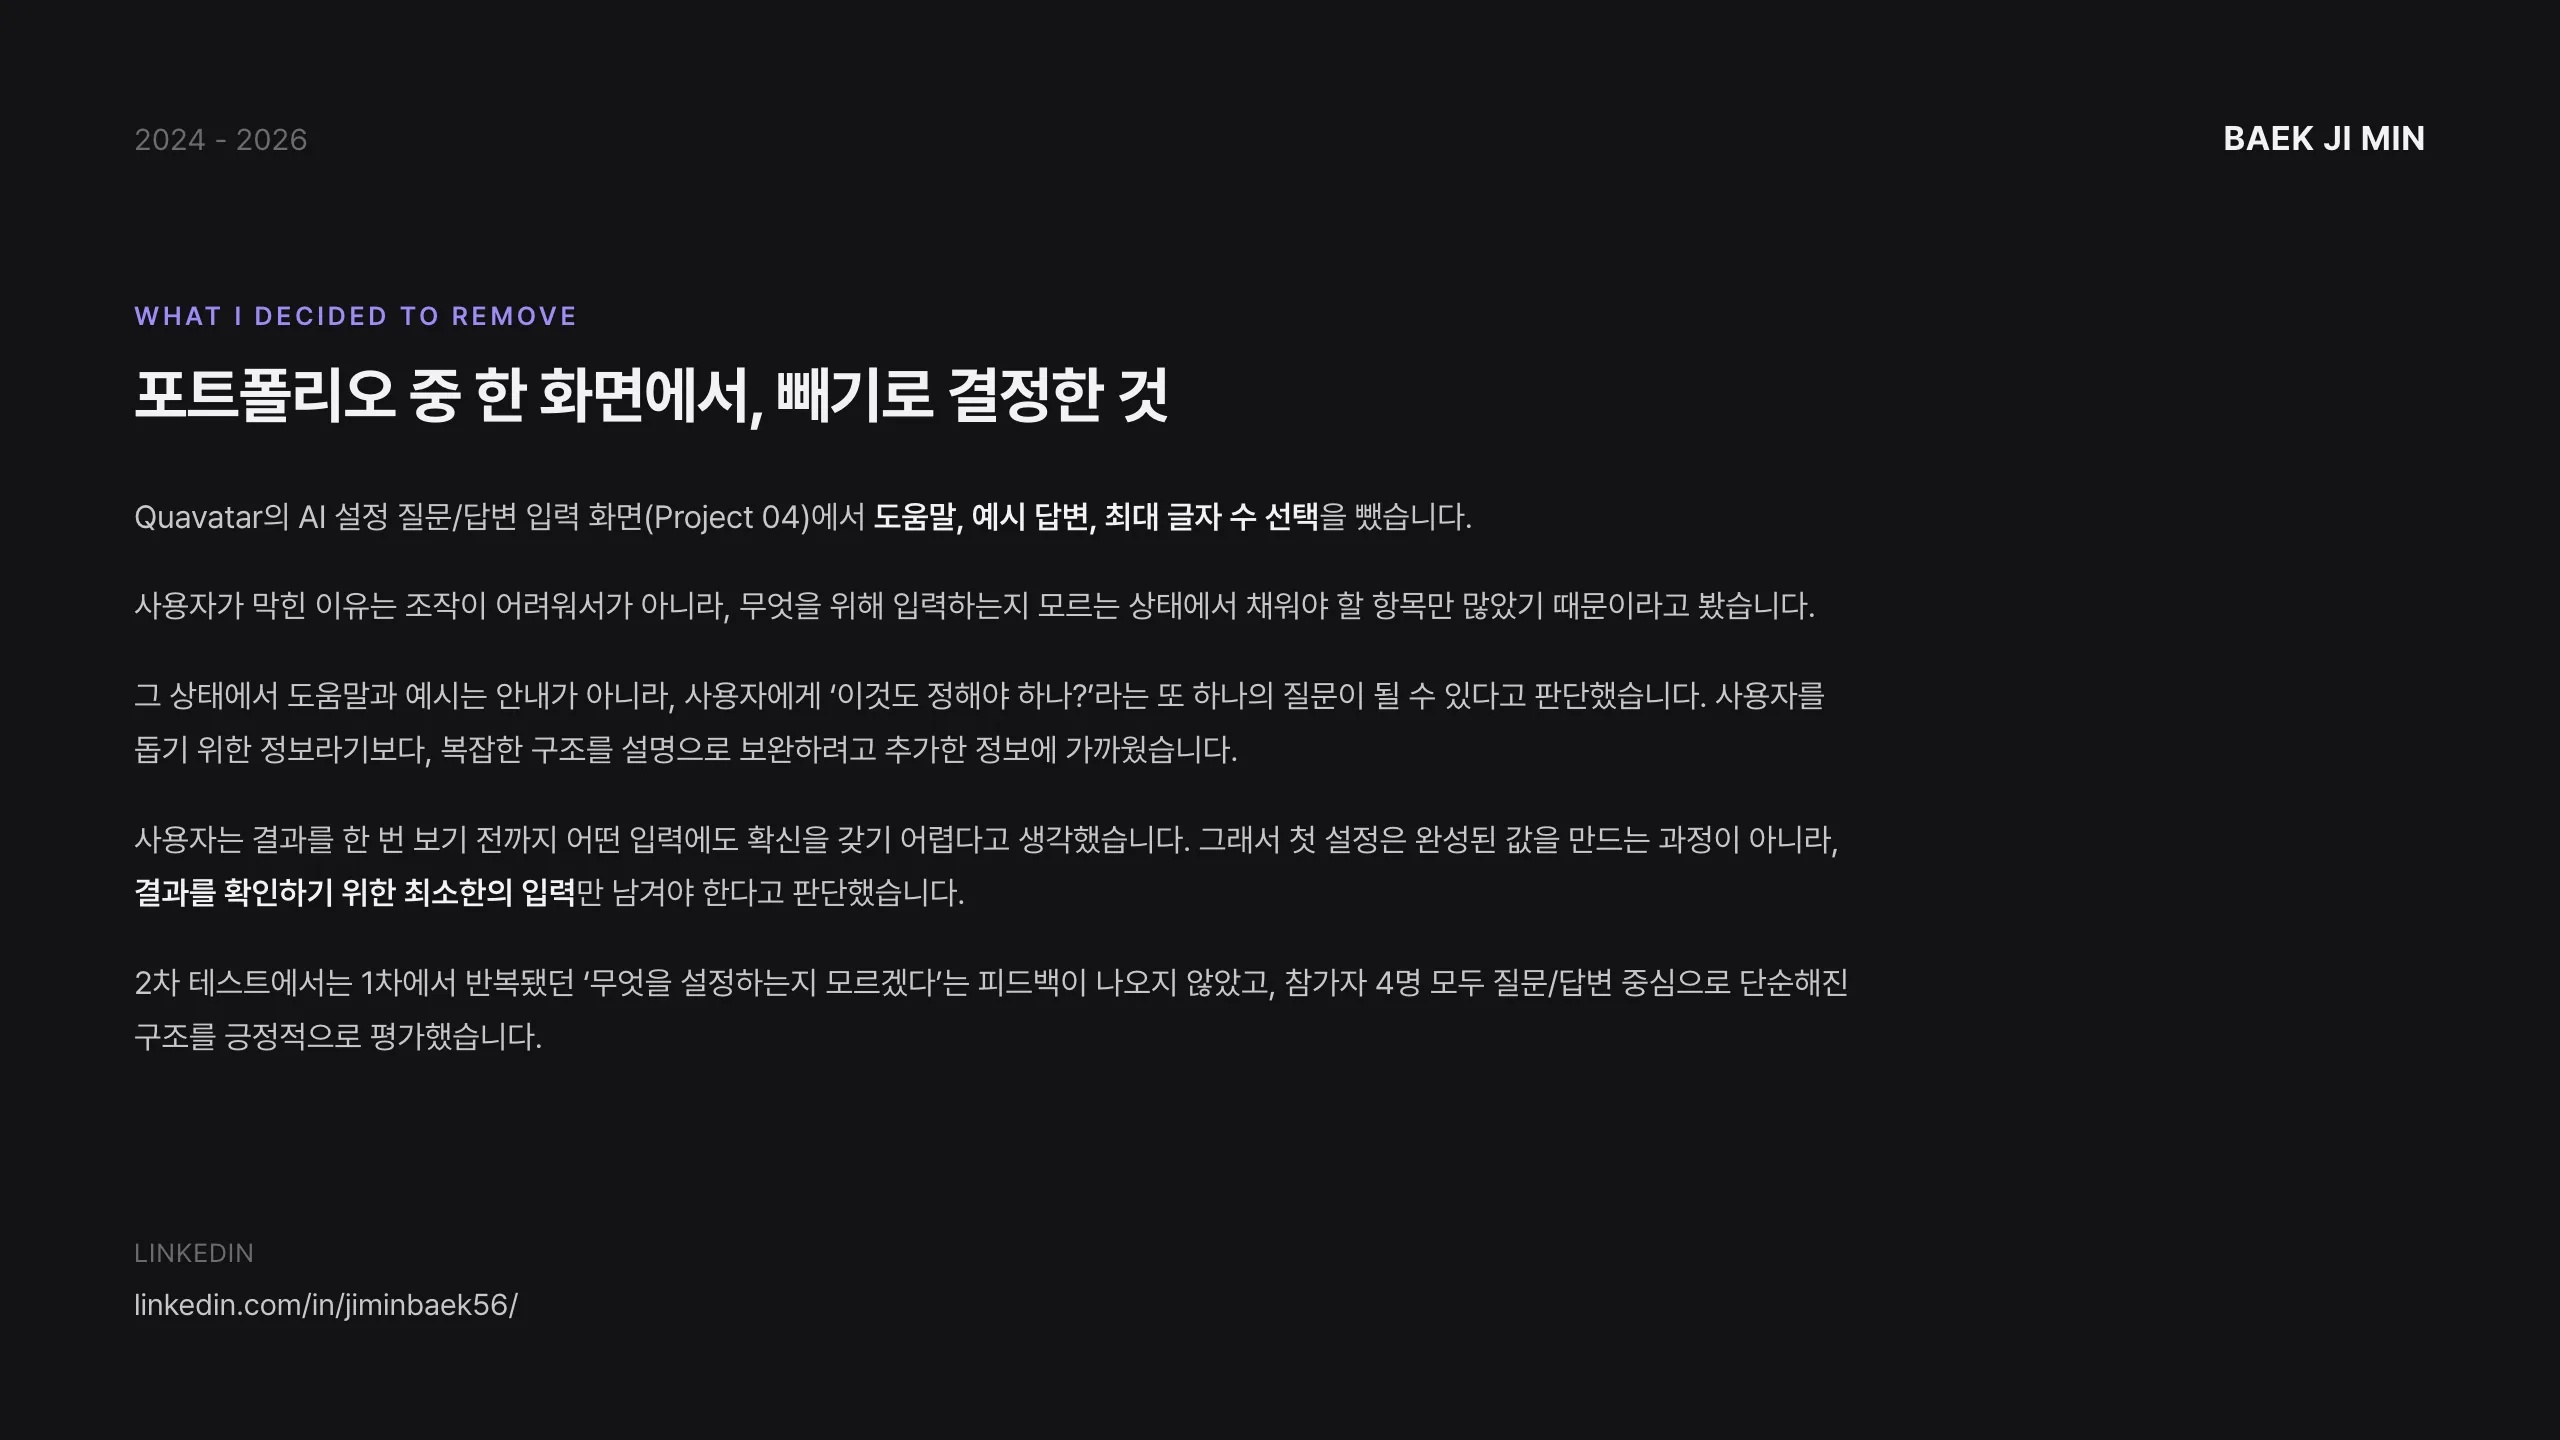
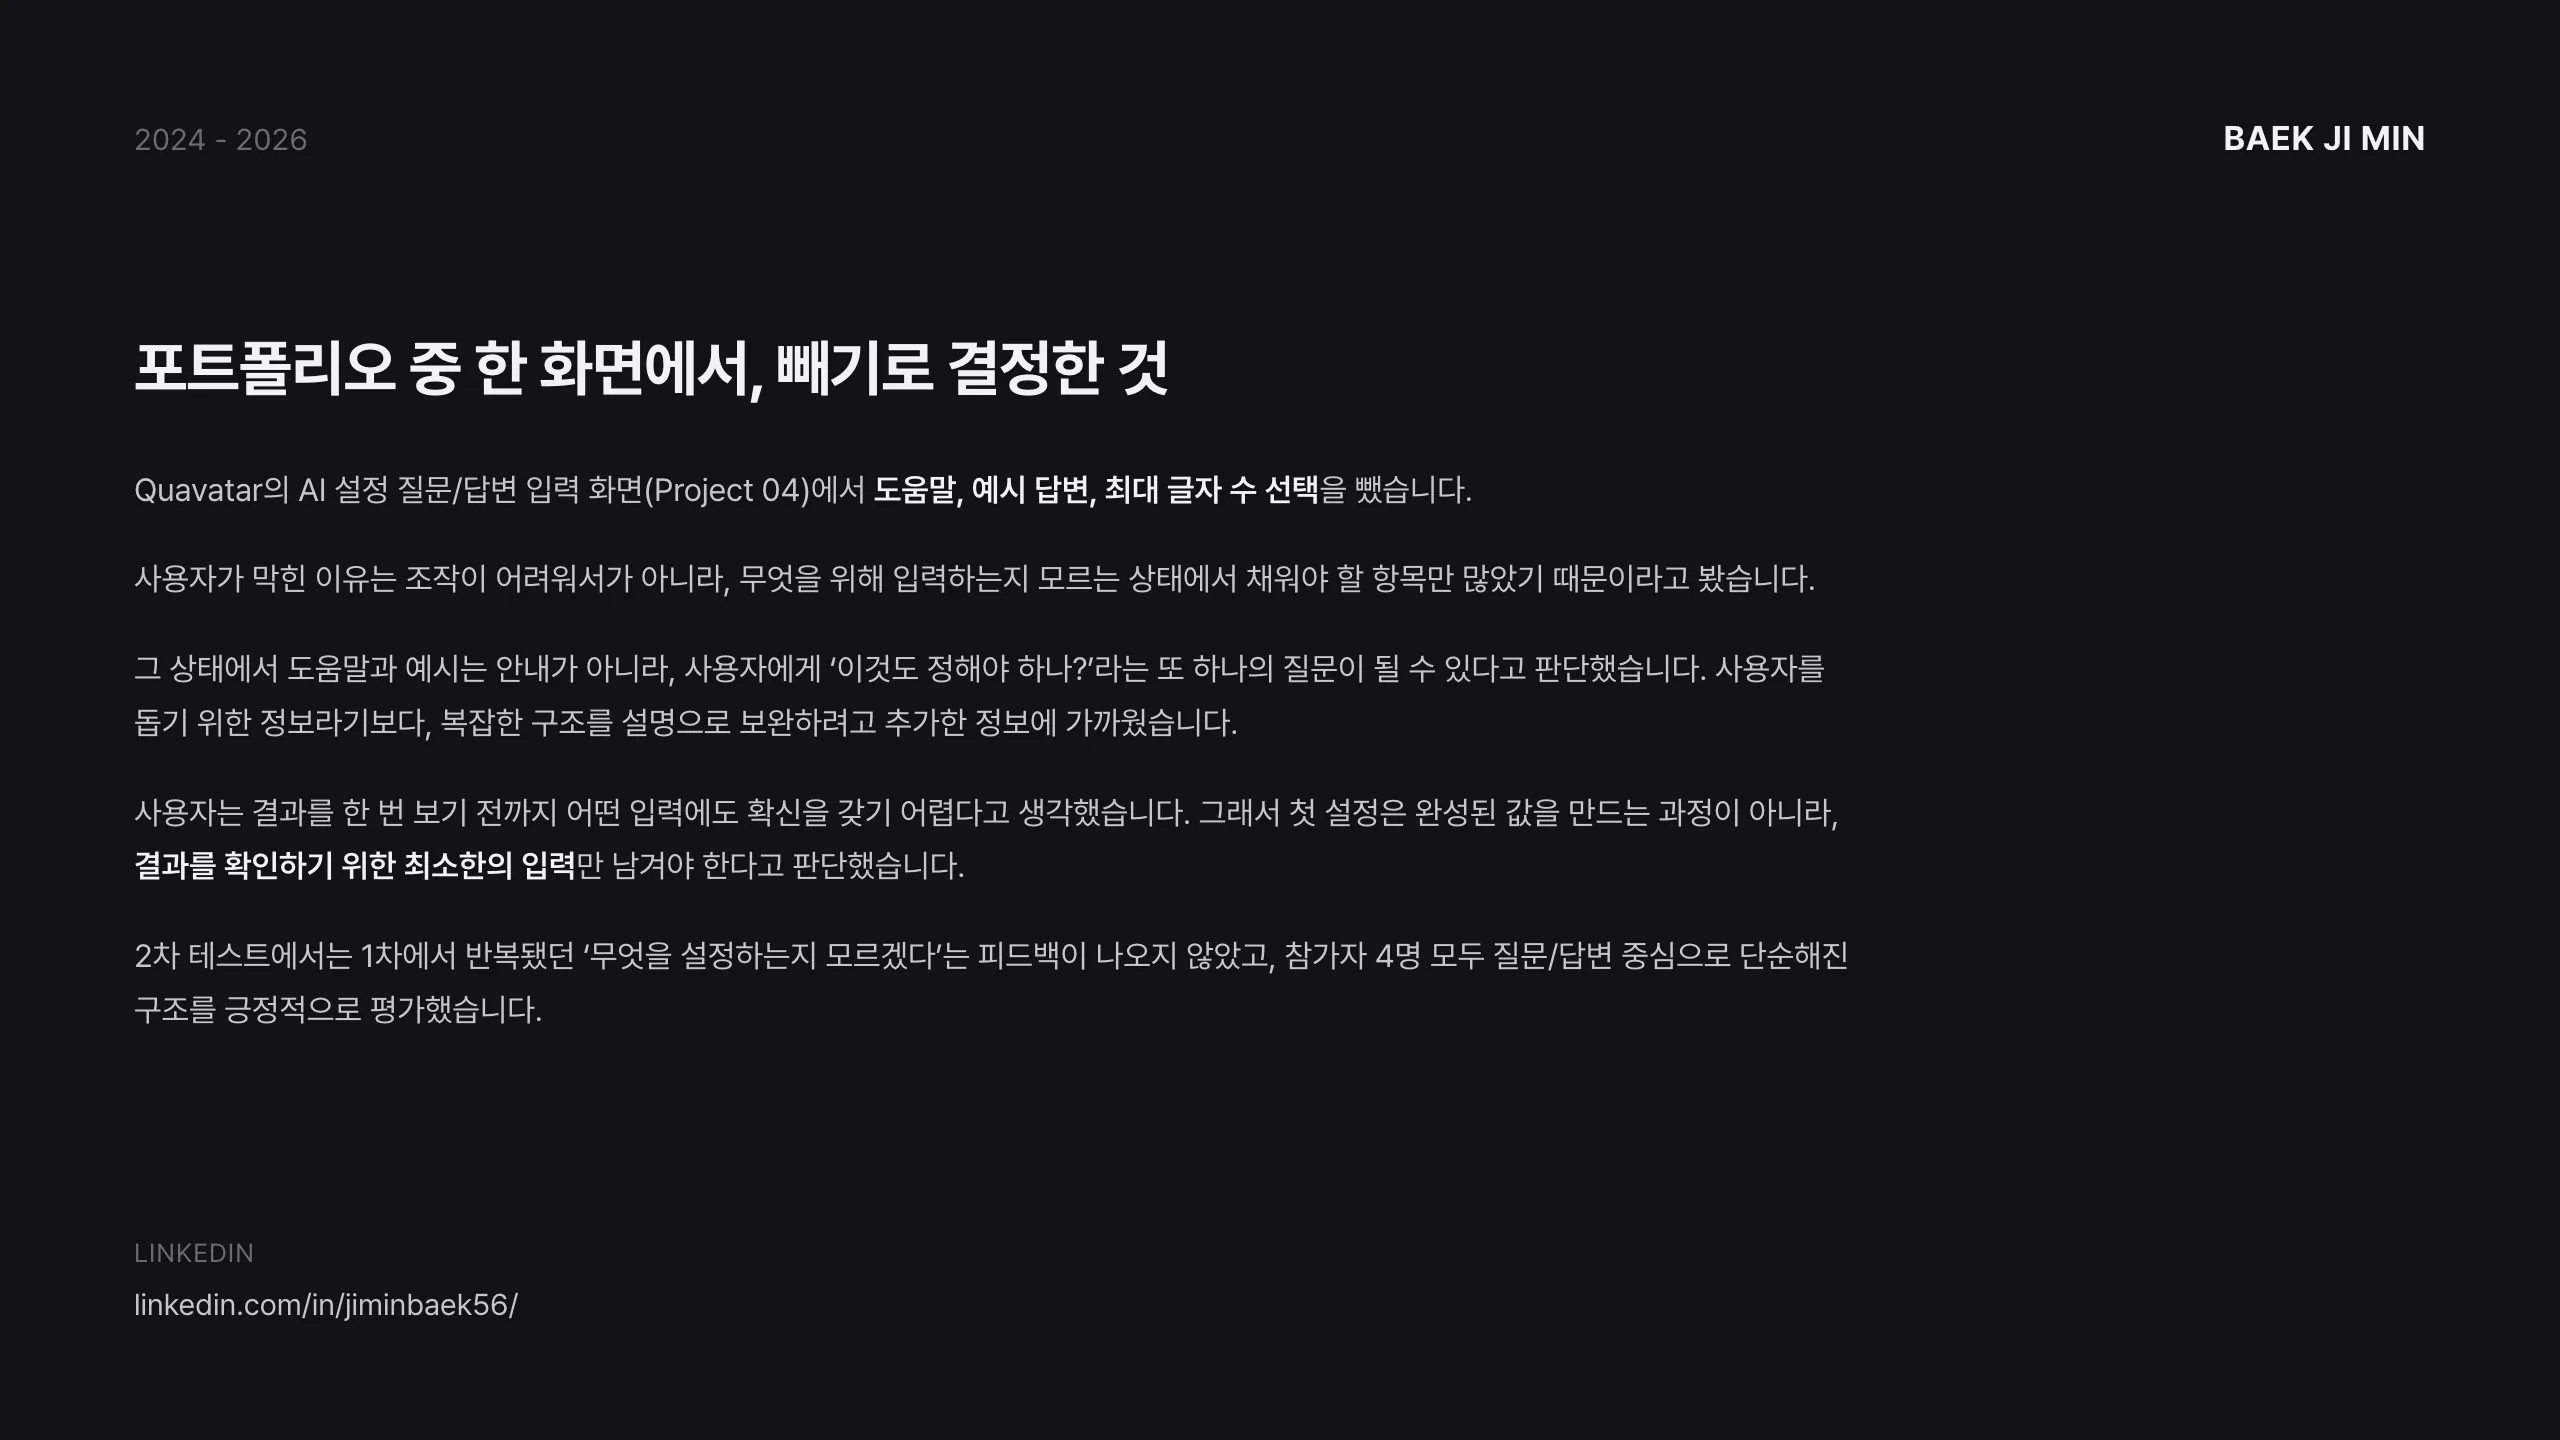
Closing page: drop eyebrow label

Changed region(s): [[0.0312, 0.2188, 0.7188, 0.625], [0.0625, 0.6562, 0.7188, 0.75]]

diff --git a/index.html b/index.html
@@ -215,7 +215,7 @@
     sec.id = 'p' + i;
     sec.setAttribute('data-p', i);
     var img = document.createElement('img');
-    img.src = 'pages/' + n + '.webp?v=2';
+    img.src = 'pages/' + n + '.webp?v=3';
     img.width = 2560;
     img.height = 1440;
     img.alt = '포트폴리오 ' + i + '쪽';
